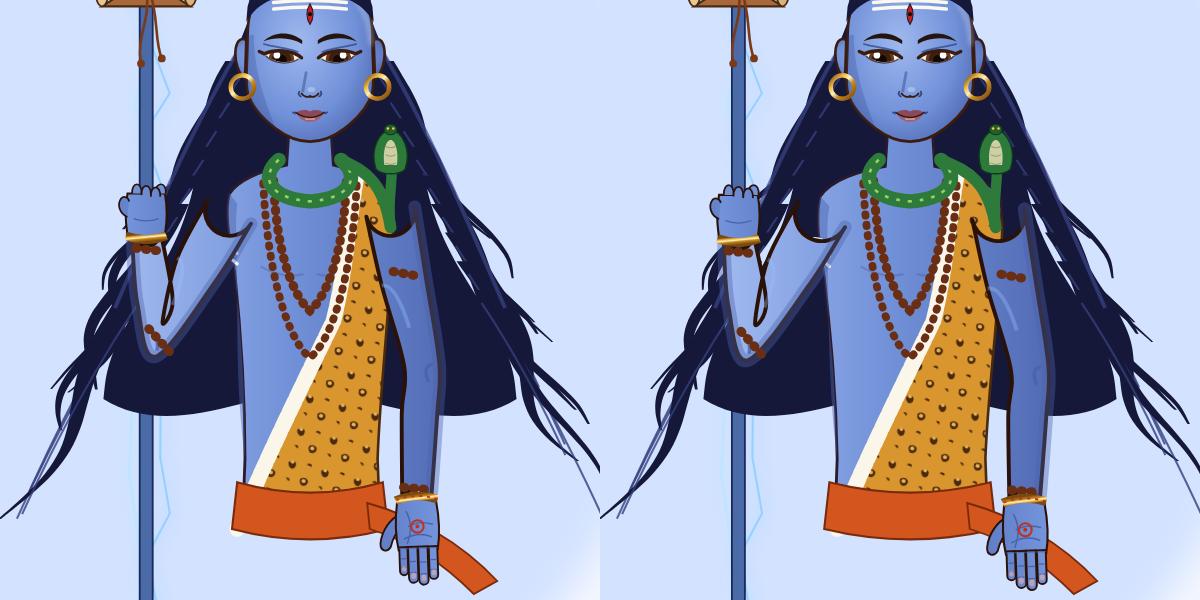
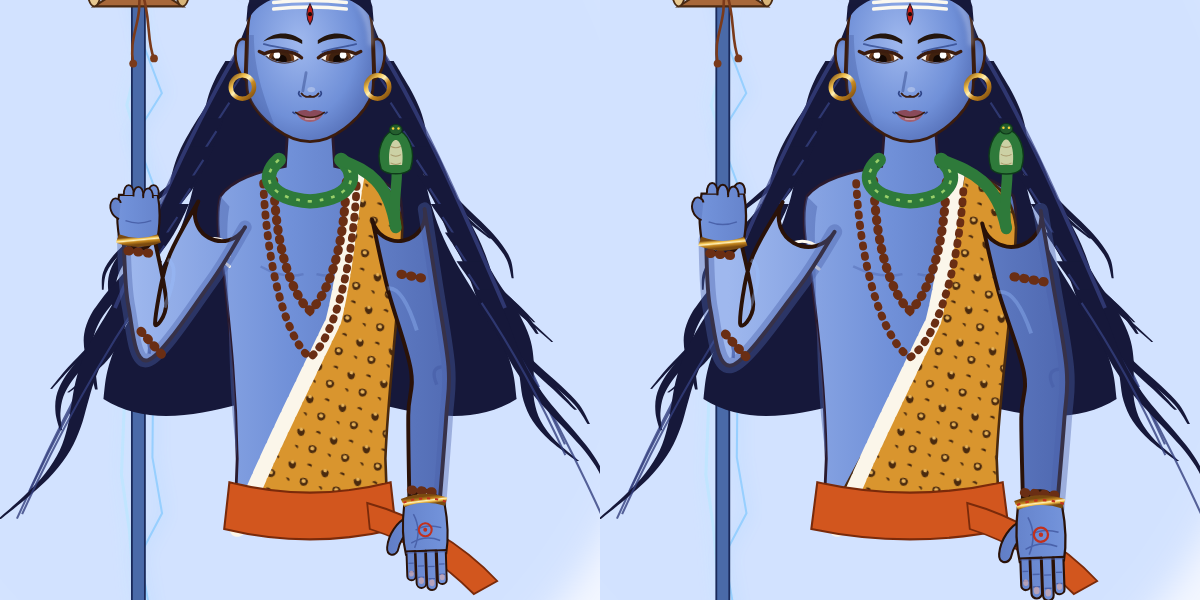
Mahadev: body 15% fuller (torso, waist, arms)
Claude-Session: https://claude.ai/code/session_01X3ArEdZK7W9b78YVvUKCgo

diff --git a/devotional-studio/style-frames/mahadev-v2.js b/devotional-studio/style-frames/mahadev-v2.js
@@ -72,25 +72,25 @@ function mahadevUpper(o = {}) {
     ? `<ellipse cx="0" cy="${by - 17}" rx="4" ry="8.5" fill="#ff8a2a" filter="url(#glow)"/><ellipse cx="0" cy="${by - 17}" rx="2" ry="4.6" fill="#fff3c0"/>`
     : `<path d="M0 ${by - 25} C 3 ${by - 20} 3 ${by - 14} 0 ${by - 9} C -3 ${by - 14} -3 ${by - 20} 0 ${by - 25}Z" fill="#c8201a" stroke="${INK}" stroke-width=".8"/><circle cx="0" cy="${by - 17}" r="1.6" fill="#1a0a0a"/>`;
   const tripundra = [0, 1, 2].map(k => `<path d="M-28 ${by - 31 + k * 5} Q 0 ${by - 34 + k * 5} 28 ${by - 31 + k * 5}" stroke="#fbf8f0" stroke-width="2.6" fill="none" stroke-linecap="round"/>`).join('');
-  const torso = 'M-17 120 L -19 151 C -40 155 -60 161 -69 174 C -73 189 -70 212 -66 236 C -62 274 -57 318 -56 376 L -58 430 L 58 430 L 56 376 C 57 318 62 274 66 236 C 70 212 73 189 69 174 C 60 161 40 155 19 151 L 17 120Z';
+  const torso = 'M -19.5 120 L -21.8 151 C -46 155 -69 161 -79.3 174 C -83.9 189 -80.5 212 -75.9 236 C -71.3 274 -65.5 318 -64.4 376 L -66.7 430 L 66.7 430 L 64.4 376 C 65.5 318 71.3 274 75.9 236 C 80.5 212 83.9 189 79.3 174 C 69 161 46 155 21.8 151 L 19.5 120 Z';
   return `<g>
     ${hairBack(o.wind || 0)}
     <path d="${torso}" fill="${SK}" stroke="${INK}" stroke-width="2.2"/>
-    <path d="M-69 174 C -73 189 -70 212 -66 236 C -62 274 -57 318 -56 376 C -62 330 -62 290 -63 246 C -63 220 -65 198 -62 182Z" fill="${SH}" opacity=".45"/>
-    <path d="M-38 228 Q -20 238 -5 234 M38 228 Q 20 238 5 234" stroke="${SH}" stroke-width="1.8" fill="none" opacity=".4"/><path d="M0 372 Q 4 379 0 386" stroke="${SH}" stroke-width="2.4" fill="none"/>
-    ${[0, 1, 2].map(k => `<path d="M-80 ${208 + k * 8} Q -70 ${204 + k * 8} -62 ${212 + k * 8}" stroke="#fbf8f0" stroke-width="2.4" fill="none" stroke-linecap="round"/>`).join('')}
+    <path d="M -79.3 174 C -83.9 189 -80.5 212 -75.9 236 C -71.3 274 -65.5 318 -64.4 376 C -71.3 330 -71.3 290 -72.4 246 C -72.4 220 -74.8 198 -71.3 182 Z" fill="${SH}" opacity=".45"/>
+    <path d="M -43.7 228 Q -23 238 -5.8 234 M 43.7 228 Q 23 238 5.8 234" stroke="${SH}" stroke-width="1.8" fill="none" opacity=".4"/><path d="M0 372 Q 4 379 0 386" stroke="${SH}" stroke-width="2.4" fill="none"/>
+    ${[0, 1, 2].map(k => `<path d="M-90 ${210 + k * 8} Q -79 ${206 + k * 8} -70 ${214 + k * 8}" stroke="#fbf8f0" stroke-width="2.4" fill="none" stroke-linecap="round"/>`).join('')}
     <!-- tiger skin over the left shoulder, fur trim, orange sash -->
-    <path d="M30 154 C 52 158 68 168 71 198 C 69 262 60 320 58 376 L 60 430 L -58 430 C -36 380 -6 320 18 270 C 28 230 30 190 36 158Z" fill="url(#tigerPat)" stroke="#4a2a0e" stroke-width="2"/>
+    <path d="M 34.5 154 C 59.8 158 78.2 168 81.6 198 C 79.3 262 69 320 66.7 376 L 69 430 L -66.7 430 C -41.4 380 -6.9 320 20.7 270 C 32.2 230 34.5 190 41.4 158 Z" fill="url(#tigerPat)" stroke="#4a2a0e" stroke-width="2"/>
     <path d="M36 158 C 30 190 28 230 18 270 C -6 320 -36 380 -56 430" fill="none" stroke="#fbf6ea" stroke-width="12" stroke-linecap="round" stroke-dasharray="10 3"/>
-    <path d="M-62 394 Q 0 410 62 394 L 66 430 Q 0 446 -66 430Z" fill="#d2561e" stroke="#7a2a0a" stroke-width="1.6"/>
+    <path d="M -71.3 394 Q 0 410 71.3 394 L 75.9 430 Q 0 446 -75.9 430 Z" fill="#d2561e" stroke="#7a2a0a" stroke-width="1.6"/>
     <path d="M44 410 C 80 420 116 440 144 470 L 126 480 C 102 456 78 440 46 430Z" fill="#d2561e" stroke="#7a2a0a" stroke-width="1.4"/>
     <!-- rudraksha mala -->
     <path d="M-28 162 C -26 224 -10 254 0 262 C 10 254 26 224 28 162" fill="none" stroke="#6a2e14" stroke-width="7" stroke-dasharray="1 6.5" stroke-linecap="round"/>
-    <path d="M-36 164 C -32 244 -14 288 0 298 C 14 288 32 244 36 164" fill="none" stroke="#6a2e14" stroke-width="6" stroke-dasharray="1 7" stroke-linecap="round"/>
+    <path d="M -41.4 164 C -36.8 244 -16.1 288 0 298 C 16.1 288 36.8 244 41.4 164" fill="none" stroke="#6a2e14" stroke-width="6" stroke-dasharray="1 7" stroke-linecap="round"/>
     <!-- neck snake + twin cobras -->
     <path d="M-24 146 C -40 160 -30 176 0 178 C 30 176 40 160 24 146" fill="none" stroke="#2e7a3a" stroke-width="11" stroke-linecap="round"/>
     <path d="M-24 146 C -40 160 -30 176 0 178 C 30 176 40 160 24 146" fill="none" stroke="#9ad06a" stroke-width="2" stroke-dasharray="3 6"/>
-    <path d="M24 146 C 42 154 60 160 66 198" stroke="#2e7a3a" stroke-width="9" fill="none" stroke-linecap="round"/>${cobra(66, 150, .8, true)}
+    <path d="M24 146 C 44 154 66 160 74 198" stroke="#2e7a3a" stroke-width="9" fill="none" stroke-linecap="round"/>${cobra(74, 150, .82, true)}
     ${F.faceP(face)}
     <path d="M-48 28 C -44 12 -28 4 0 4 C 28 4 44 12 48 28 L 49 40 C 40 24 24 18 0 18 C -24 18 -40 24 -49 40Z" fill="#16183a"/>
     <!-- top bun, rudraksha band, crescent, Ganga arc -->
@@ -106,11 +106,11 @@ function mahadevUpper(o = {}) {
 }
 
 function arms(o = {}) { // right arm raised holding the trishul; left arm across, open hand
-  const J1 = { sh: [-68, 188], el: [-122, 286], wr: [-132, 204] }, J2 = { sh: [68, 188], el: [92, 306], wr: [88, 412] };
-  return `${A.arm(J1.sh, J1.el, J1.wr, SK, SH, [41, 39, 29, 30, 23])}${rud(-130, 278, -112, 298)}${rud(-140, 216, -122, 218)}
-    ${A.arm(J2.sh, J2.el, J2.wr, SK, SH, [41, 39, 29, 30, 23])}${rud(70, 234, 92, 238)}${rud(78, 400, 100, 402)}
-    <g transform="translate(-132,204) scale(.62)">${A.holdingHand(SK, SH, -1, false)}</g>
-    <g transform="translate(88,412) rotate(178) scale(.62)">${A.openPalm(SK, SH, 1)}</g>`;
+  const J1 = { sh: [-78, 190], el: [-134, 288], wr: [-144, 206] }, J2 = { sh: [78, 190], el: [104, 308], wr: [100, 414] };
+  return `${A.arm(J1.sh, J1.el, J1.wr, SK, SH, [46, 44, 33, 34, 26])}${rud(-142, 280, -122, 302)}${rud(-154, 218, -134, 220)}
+    ${A.arm(J2.sh, J2.el, J2.wr, SK, SH, [46, 44, 33, 34, 26])}${rud(80, 236, 104, 240)}${rud(88, 402, 112, 404)}
+    <g transform="translate(-144,206) scale(.68)">${A.holdingHand(SK, SH, -1, false)}</g>
+    <g transform="translate(100,414) rotate(178) scale(.68)">${A.openPalm(SK, SH, 1)}</g>`;
 }
 
 function mahadevSheet() {
@@ -124,7 +124,7 @@ function mahadevSheet() {
     <rect width="${W}" height="${H}" fill="#f4f7ff"/>
     <ellipse cx="420" cy="520" rx="420" ry="520" fill="#5f9bff" opacity=".22" filter="url(#softGlow)"/>
     <text x="1380" y="70" text-anchor="middle" font-family="Cinzel, serif" font-weight="700" font-size="34" fill="#1f2f6a">MAHADEV · NEW DESIGN (face M5)</text>
-    <g transform="translate(470,250) scale(1.3)">${trishul(-132, 40, 1, 0)}${mahadevUpper({ id: 'hero' })}${arms()}</g>
+    <g transform="translate(470,250) scale(1.3)">${trishul(-144, 40, 1, 0)}${mahadevUpper({ id: 'hero' })}${arms()}</g>
     ${card(1080, 330, { eyes: 'lowered', mouth: 'smile' }, 1, 'compassionate · default')}
     ${card(1380, 330, { eyes: 'closed', mouth: 'soft' }, 2, 'meditation')}
     ${card(1680, 330, { eyes: 'open', mouth: 'soft' }, 3, 'calm')}
